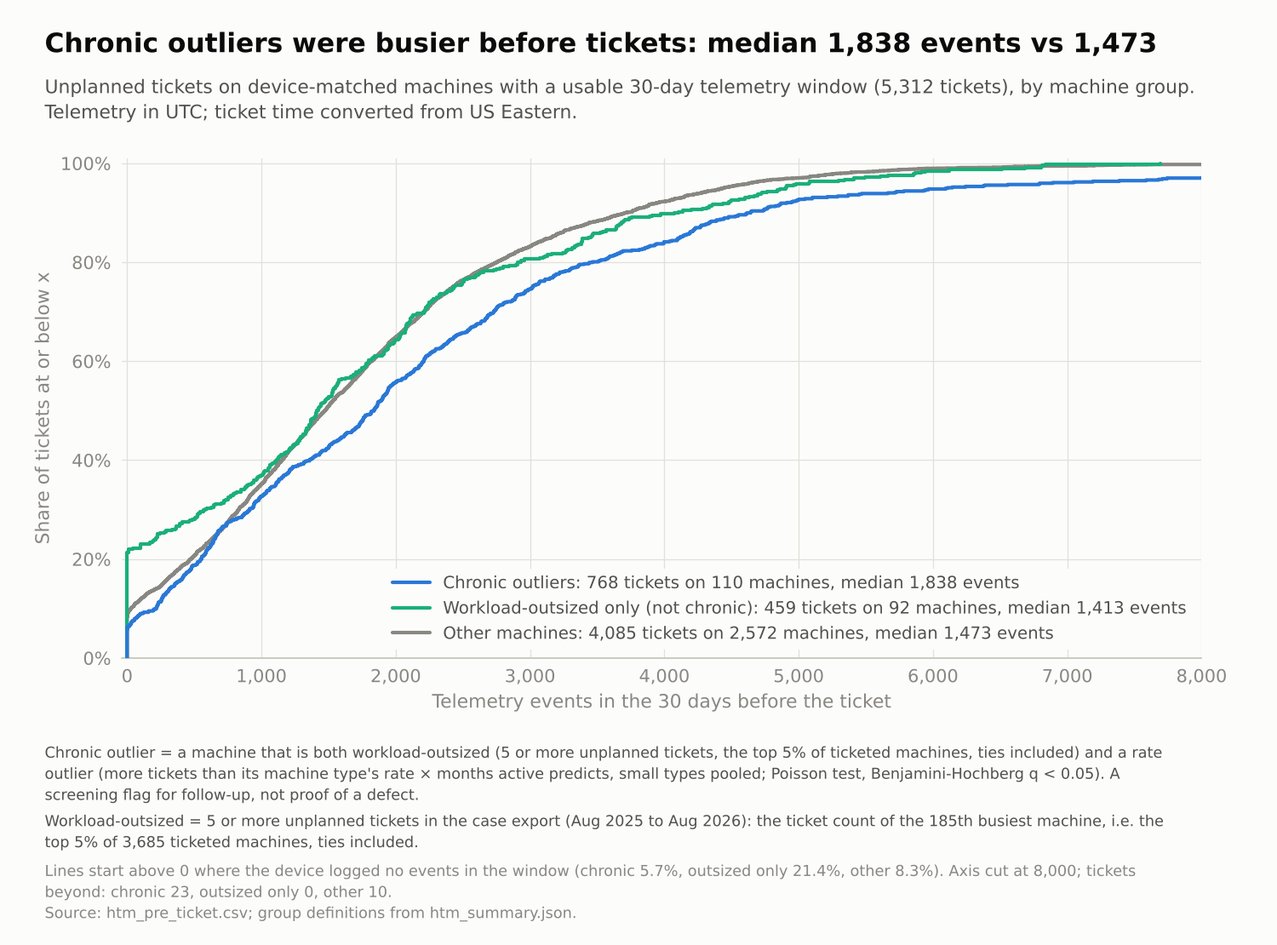
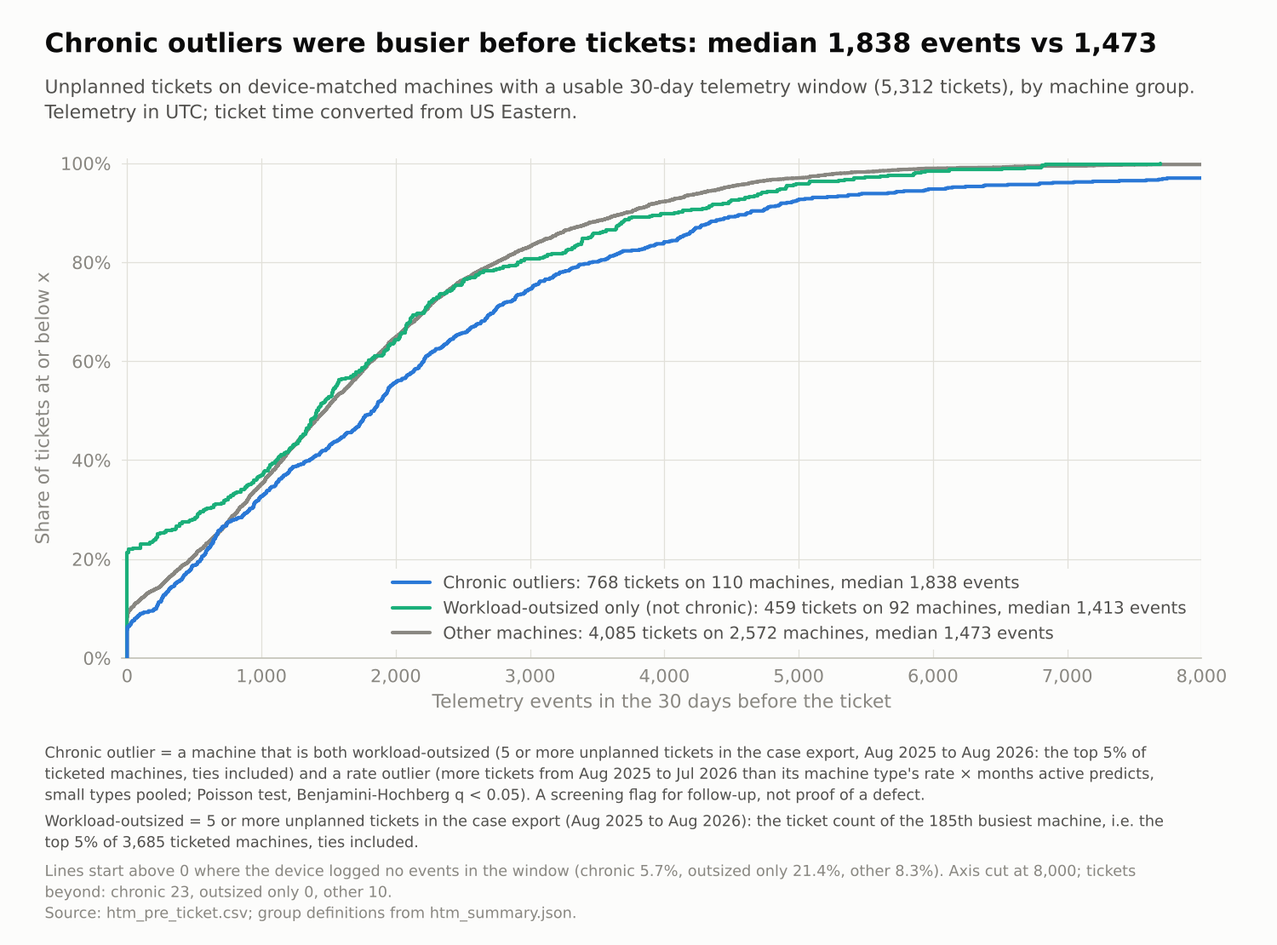
Fix review findings on chart definitions and charts 9-10
- Chart 3 and docs/05: "Workload-outsized only" no longer glossed as "high
  volume, as expected" (false: these devices log a median ~5x their expected
  count but miss q < 0.05); now "not a significant rate outlier".
- Chronic-outlier definition dates both windows (case export for the workload
  count, Aug 2025-Jul 2026 for the rate test). Machine-month definition says
  how zero-month devices are handled and derives the month count from the
  period.
- Chart 10: title qualified to the 19 well-measured types; fleet-rate totals
  stated (all types); top-3 types shown as +12%/+9%/+0% vs fleet rather than
  "near"; sd2.0-49 named as unmeasurable (88 of 89 devices never transact);
  note on why counts differ from chart 9; labels no longer placed across the
  fleet line; Byar docstring accuracy corrected.
- Chart 9: disclaimer says "model" on the model chart; note that telemetry
  type is a near one-to-one stand-in for the top three models (computed).
- Chart 6 notes keep group labels with their values; long lines wrapped;
  README adds the run_all command.

Checks: analysis 33/33; 13 figures, 91 consistency checks, definition check
13/13, privacy scan 0 hits; every chart runs alone under -W error.

Claude-Session: https://claude.ai/code/session_01TK1dMyKUfDxdMWXiP8n6X5

Changed region(s): [[0.0307, 0.7658, 0.92, 0.8577]]

diff --git a/verification/plots/htm_10_ticket_rate_by_machine_type.py b/verification/plots/htm_10_ticket_rate_by_machine_type.py
@@ -30,7 +30,8 @@ NOT_MATCHED = '(not device-matched)'
 
 
 def poisson_interval(k, z=Z):
-    """Byar's approximation to the exact Poisson interval for a count k (accurate to a few % even for small k)."""
+    """Byar's approximation to the exact Poisson interval for a count k: within 1% of the exact limits for k >= 5
+    (the lower limit is too low for k < 5; every type shown has at least 10 tickets)."""
     k = np.asarray(k, float)
     lo = np.where(k > 0, k * (1 - 1 / (9 * np.maximum(k, 1)) - z / (3 * np.sqrt(np.maximum(k, 1)))) ** 3, 0.0)
     hi = (k + 1) * (1 - 1 / (9 * (k + 1)) + z / (3 * np.sqrt(k + 1))) ** 3
@@ -70,10 +71,9 @@ def plot(out_dir=style.FIG_DIR):
     ax.hlines(y, d.lo, d.hi, color=style.GRAY_LIGHT, lw=2, zorder=2)
     ax.scatter(d.rate, y, s=60, c=colors, edgecolors=style.SURFACE, linewidths=1.4, zorder=3)
     for yi, row in zip(y, d.itertuples()):
-        x = row.hi + 0.4
-        if fleet - 1.3 < x < fleet + 0.3:  # the label would sit on the fleet line: move it just right of the line
-            x = fleet + 0.3
-        ax.text(x, yi, f'{row.rate:.1f}', va='center', ha='left', fontsize=9.5,
+        # Right of the interval, unless that lands on the fleet line: then left of the interval.
+        x, ha = (row.lo - 0.4, 'right') if fleet - 1.3 < row.hi + 0.4 < fleet + 0.3 else (row.hi + 0.4, 'left')
+        ax.text(x, yi, f'{row.rate:.1f}', va='center', ha=ha, fontsize=9.5,
                 color=style.INK if row.raw_top else style.INK2, weight='bold' if row.raw_top else 'normal')
     ax.text(fleet + 0.3, len(d) - 0.35, f'Fleet: {fleet:.1f}', va='bottom', ha='left', fontsize=9.5,
             color=style.INK2)
@@ -93,22 +93,33 @@ def plot(out_dir=style.FIG_DIR):
               loc='lower right')
 
     top = d.iloc[-1]
-    raw_rates = d[d.raw_top].sort_values('rate', ascending=False).rate
+    top3 = d[d.raw_top].sort_values('rate', ascending=False)
+    vs_fleet = ', '.join(f'{100 * (v / fleet - 1):+.0f}%' for v in top3.rate)
+    # Small types with mostly non-transacting devices: no measurable exposure rather than just a small one.
+    unmeasured = small[(small.zero_exposure_devices >= small.devices / 2) & (small.tickets_used_for_rate >= 10)]
+    unmeasured_txt = ''.join(f' {u.machine_type} ({u.devices} devices, {u.zero_exposure_devices} with no '
+                             f'transaction in the window; {u.tickets_used_for_rate} tickets) has almost no '
+                             f'measurable exposure.'
+                             for u in unmeasured.itertuples())
+    ex = top3.iloc[0]
+    ex_raw = int(raw.loc[raw.value == ex.machine_type, 'unplanned_tickets'].iloc[0])
     style.frame(
         fig,
-        f'Per machine-month, {top.machine_type} has the highest ticket rate: {top.rate:.1f}, '
+        f'Of {len(d)} well-measured types, {top.machine_type} has the highest ticket rate: '
         f'{top.rate / fleet:.1f}× the fleet',
-        f'Unplanned tickets per 100 machine-months by telemetry machine type, {style.period_text(S)}: '
-        f'{int(d.tickets_used_for_rate.sum()):,} tickets over {int(d.exposure_months.sum()):,} machine-months. '
-        f'Adjusting for exposure, the three types with the most tickets sit near the fleet rate of {fleet:.1f} '
-        f'({", ".join(f"{v:.1f}" for v in raw_rates)}): their lead in raw counts is mostly fleet size.',
-        notes=[f'The fleet rate of {fleet:.1f} per 100 machine-months is about {12 * fleet / 100:.1f} tickets per '
-               f'machine per year. The Poisson interval understates uncertainty because machines of one type differ '
-               f'from each other (see chart 3). Tickets include those on devices with no machine-months '
-               f'({int(r.tickets_on_zero_exposure_devices.sum())} fleet-wide).',
-               f'Not shown: {len(small)} types with fewer than {min_months} machine-months ('
-               f'{int(small.exposure_months.sum()):,} machine-months, {int(small.tickets_used_for_rate.sum())} '
-               f'tickets in all); their rates are too unstable to compare.',
+        f'Unplanned tickets per 100 machine-months by telemetry machine type, {style.period_text(S)}, for the '
+        f'{len(d)} types with at least {min_months} machine-months. Fleet rate {fleet:.1f} = '
+        f'{int(r.tickets_used_for_rate.sum()):,} tickets over {int(r.exposure_months.sum()):,} machine-months, all '
+        f'types. The three types with the most tickets run only modestly above it ({vs_fleet}): their lead in raw '
+        f'counts is mostly fleet size.',
+        notes=[f'The fleet rate is about {12 * fleet / 100:.1f} tickets per machine per year. The Poisson interval '
+               f'understates uncertainty because machines of one type differ from each other (see chart 3). Tickets '
+               f'on devices with 0 machine-months: {int(r.tickets_on_zero_exposure_devices.sum())} fleet-wide.',
+               f'Not shown: {len(small)} types with fewer than {min_months} machine-months '
+               f'({int(small.exposure_months.sum()):,} machine-months, {int(small.tickets_used_for_rate.sum())} '
+               f'tickets in all); their rates are too unstable to compare.{unmeasured_txt}',
+               f'Tickets here cover {style.period_text(S)} on the exposure population, so counts are lower than in '
+               f'chart 9 (e.g. {ex.machine_type}: {int(ex.tickets_used_for_rate):,} here, {ex_raw:,} in chart 9).',
                'Source: htm_type_rates.csv; raw counts from htm_type_mix.csv.'],
         definitions=[style.machine_month_definition(S)])
     return [style.save(fig, out_dir / 'htm_10_ticket_rate_by_machine_type.png')]

diff --git a/verification/plots/htm_09_tickets_by_type.py b/verification/plots/htm_09_tickets_by_type.py
@@ -10,6 +10,7 @@ can rank high simply because many of its machines are installed. Chart 10 (htm_1
 shows the exposure-adjusted rates per 100 machine-months by telemetry type.
 
 Inputs:  verification/outputs/htm_type_mix.csv (field = model / machine_type: unplanned_tickets per value)
+         verification/outputs/htm_machine_counts.csv (model and machine_type per machine, for the proxy note)
          verification/outputs/htm_summary.json (D1_workload: total tickets and machines, for consistency checks)
 Run:     cd /home/user/analytics-lab && python3 -I verification/plots/htm_09_tickets_by_type.py
 """
@@ -25,8 +26,21 @@ N_SHOWN = 12      # bars before the tail is grouped as "Other"
 N_HIGHLIGHT = 3   # top bars in emphasis blue; the titles say "Three" and the subtitles name them
 NOT_MATCHED = '(not device-matched)'
 
-DISCLAIMER = ('Not adjusted for fleet size: these are raw ticket counts, so a type can rank high simply because many '
-              'machines of that type are installed.')
+def disclaimer(noun):
+    return (f'Not adjusted for fleet size: these are raw ticket counts, so a {noun} can rank high simply because many '
+            f'machines of that {noun} are installed.')
+
+
+def proxy_note(models):
+    """For each model, its most common telemetry type among device-matched machines (model -> type share)."""
+    mc = style.load('machine_counts')
+    mc = mc[mc.machine_type.notna() & mc.model.isin(models)]
+    parts = []
+    for model in models:
+        vc = mc.loc[mc.model == model, 'machine_type'].value_counts()
+        parts.append(f'{model} = {vc.index[0]} for {vc.iloc[0]:,} of {vc.sum():,} machines')
+    return ('For these three models, telemetry type is a near one-to-one stand-in (' + '; '.join(parts) +
+            '), so chart 10\'s rates for those types approximate the models\' rates.')
 
 
 def tickets_by(field):
@@ -73,14 +87,15 @@ def plot(out_dir=style.FIG_DIR):
     written.append(draw(
         m, total, 'models',
         f'Three models generate {style.pct(top.unplanned_tickets.sum() / total, 0)} of unplanned tickets',
-        f'Raw counts, not adjusted for fleet size (see the note below). Blue: {", ".join(top.value)}. '
-        f'All {total:,} unplanned tickets on {S["machines"]:,} ticketed machines (case-export '
-        f'serials), {style.period_text(S_all, "case_export_period")}. Excludes planned work, cancelled and duplicate cases. Share of all '
-        f'unplanned tickets in brackets.',
-        [f'Each machine is counted under its most frequently recorded model. Other = the {len(m) - N_SHOWN} models '
-         f'with the fewest tickets.', 'Source: htm_type_mix.csv (field = model).'],
-        DISCLAIMER + ' The number of installed machines per model is not in the data (model is recorded only on '
-        'tickets), so per-machine rates by model cannot be computed.',
+        f'Raw counts, not adjusted for fleet size (see the note below). All {total:,} unplanned tickets on '
+        f'{S["machines"]:,} ticketed machines (case-export serials), '
+        f'{style.period_text(S_all, "case_export_period")}; excludes planned work, cancelled and duplicate cases. '
+        f'Share of all unplanned tickets in brackets; blue = the three models with the most tickets.',
+        [proxy_note(top.value.tolist()),
+         f'Each machine is counted under the model recorded on its tickets. Other = the {len(m) - N_SHOWN} models '
+         f'with the fewest tickets.', 'Source: htm_type_mix.csv (field = model), htm_machine_counts.csv.'],
+        disclaimer('model') + ' The number of installed machines per model is not in the data (model is recorded '
+        'only on tickets), so per-machine rates by model cannot be computed directly.',
         out_dir / 'htm_09_tickets_by_model.png'))
 
     # By telemetry machine type: only tickets whose serial matches a telemetry device.
@@ -94,13 +109,13 @@ def plot(out_dir=style.FIG_DIR):
         t, matched, 'types',
         f'Three telemetry types generate {style.pct(top.unplanned_tickets.sum() / matched, 0)} of device-matched '
         f'tickets',
-        f'Raw counts, not adjusted for fleet size (see the note below). Blue: {", ".join(top.value)}. '
-        f'{matched:,} unplanned tickets whose serial matches a telemetry device, '
-        f'{style.period_text(S_all, "case_export_period")}. Share of device-matched tickets in brackets.',
+        f'Raw counts, not adjusted for fleet size (see the note below). The {matched:,} unplanned tickets whose '
+        f'serial matches a telemetry device, {style.period_text(S_all, "case_export_period")}. Share of these '
+        f'tickets in brackets; blue = the three types with the most tickets.',
         [f'Not shown: {unmatched:,} tickets on machines not matched to a telemetry device. Other = the '
          f'{len(t) - N_SHOWN} types with the fewest tickets.',
          'Source: htm_type_mix.csv (field = machine_type).'],
-        DISCLAIMER + ' Chart 10 adjusts for this: ticket rates per 100 machine-months by telemetry type '
+        disclaimer('type') + ' Chart 10 adjusts for this: ticket rates per 100 machine-months by telemetry type '
         '(htm_10_ticket_rate_by_machine_type.png).',
         out_dir / 'htm_09_tickets_by_machine_type.png'))
     return written

diff --git a/verification/plots/htm_03_observed_vs_expected.py b/verification/plots/htm_03_observed_vs_expected.py
@@ -1,9 +1,10 @@
 #!/usr/bin/env python3
 """Chart 3: observed vs expected unplanned tickets per device, coloured by outlier class.
 
-Each device in the exposure population (shared internal host and devices with no host excluded) is one point: its observed unplanned tickets in the
-period against the count its machine type's rate x months active predicts. Chronic outliers (workload-outsized and
-rate outlier), rate outliers only and workload-outsized-only devices are drawn over the other devices, with the
+Each device in the exposure population (shared internal host and devices with no host excluded) is one point:
+its observed unplanned tickets in the period against the count its machine type's rate x months active predicts.
+Chronic outliers (workload-outsized and rate outlier), rate outliers only and workload-outsized-only devices
+(workload-outsized but not a significant rate outlier) are drawn over the other devices, with the
 observed = expected line for reference. The title states the chronic outliers' median observed vs expected count.
 The footer explains why some workload-outsized devices sit below the ticket threshold on this axis: the threshold
 counts the serial's tickets over the whole case export, the y-axis the device's tickets in the period.
@@ -36,7 +37,7 @@ JITTER = 0.22   # vertical jitter (tickets) to show overlapping integer counts
 CLASSES = [
     ('chronic_outlier', 'Chronic outlier', style.BLUE),
     ('rate_outlier_only', 'Rate outlier only', style.ORANGE),
-    ('high_volume_expected', 'Workload-outsized only', style.AQUA),  # high volume, as expected for its exposure
+    ('high_volume_expected', 'Workload-outsized only', style.AQUA),  # outsized, but not a significant rate outlier
 ]
 NAME = {c: n for c, n, _ in CLASSES}
 
@@ -45,14 +46,15 @@ def count_phrase(n, what):
     return f'{n} {what}' if n == 1 else f'{n} {what}s'
 
 
-def class_definition(d, untested):
+def class_definition(S, d, untested):
     """One line defining the two non-chronic classes."""
     hv0 = int(((d['class'] == 'high_volume_expected') & (d.expected == 0)).sum())
-    zero_txt = (f', including {hv0} {"untested " if untested else ""}devices with zero exposure months (x = 0)'
-                if hv0 else '')
+    zero_txt = (f'; the class also holds {hv0} {"untested " if untested else ""}devices with zero exposure months '
+                f'(x\u00a0=\u00a00)' if hv0 else '')
     return (f'{NAME["rate_outlier_only"]} = a rate outlier that is not workload-outsized. '
-            f'{NAME["high_volume_expected"]} = workload-outsized but not a rate outlier: high volume, as expected for '
-            f'its type and months active{zero_txt}.')
+            f'{NAME["high_volume_expected"]} = workload-outsized but not a significant rate outlier '
+            f'(q\u00a0≥\u00a0{S["definitions"]["q_cut"]:g}): most still log well above their expected count but miss the '
+            f'cut{zero_txt}.')
 
 
 def threshold_note(S, d):
@@ -61,7 +63,8 @@ def threshold_note(S, d):
     thr = S['D1_workload']['threshold']
     low = d.tickets_obs < thr
     counts = [(int((low & (d['class'] == 'chronic_outlier')).sum()), 'chronic outlier'),
-              (int((low & (d['class'] == 'high_volume_expected')).sum()), f'{NAME["high_volume_expected"].lower()} device')]
+              (int((low & (d['class'] == 'high_volume_expected')).sum()),
+               f'{NAME["high_volume_expected"].lower()} device')]
     text = ('Workload-outsized counts the serial\'s unplanned tickets over the whole case export, not the device\'s '
             'tickets in the period plotted here')
     if any(n for n, _ in counts):
@@ -150,7 +153,7 @@ def plot(out_dir=style.FIG_DIR):
         f'{len(d):,} devices in the exposure population (shared internal host and devices with no host excluded), '
         f'unplanned tickets {style.period_text(S)}. '
         f'Points above the line logged more tickets than their type\'s rate × months active predicts.',
-        definitions=[style.chronic_definition(S), class_definition(d, untested)],
+        definitions=[style.chronic_definition(S), class_definition(S, d, untested)],
         notes=[threshold_note(S, d),
                f'Points jittered vertically by up to {JITTER} to show overlap. {len(zero)} devices with zero '
                f'exposure months sit at x = 0{" (not tested)" if untested else ""}.{hidden_note(S, hidden)}',

diff --git a/verification/plots/style.py b/verification/plots/style.py
@@ -87,17 +87,21 @@ def chronic_definition(S=None):
     S = S or summary()
     w, d = S['D1_workload'], S['definitions']
     return (f'Chronic outlier = a machine that is both workload-outsized ({w["threshold"]} or more unplanned '
-            f'tickets, the top {d["top_share"]:.0%} of ticketed machines, ties included) and a rate outlier (more '
-            f'tickets than its machine type\'s rate × months active predicts, small types pooled; Poisson test, '
-            f'Benjamini-Hochberg q < {d["q_cut"]:g}). A screening flag for follow-up, not proof of a defect.')
+            f'tickets in the case export, {period_text(S, "case_export_period")}: the top {d["top_share"]:.0%} of '
+            f'ticketed machines, ties included) and a rate outlier (more tickets from {period_text(S)} than its '
+            f'machine type\'s rate × months active predicts, small types pooled; Poisson test, Benjamini-Hochberg '
+            f'q < {d["q_cut"]:g}). A screening flag for follow-up, not proof of a defect.')
 
 
 def machine_month_definition(S=None):
     S = S or summary()
-    return (f'Machine-month = one month of a machine being in service. Each telemetry device counts the calendar '
-            f'months from its first to its last transaction within {period_text(S)}, both included (quiet months in '
-            f'between count too), so a machine active all year adds 12. Devices on the shared internal host or with '
-            f'no host are excluded.')
+    lo, hi = (pd.Timestamp(x) for x in S['definitions']['period'])
+    n_months = (hi.year - lo.year) * 12 + hi.month - lo.month + 1
+    return (f'Machine-month = one month of a machine in service. Each telemetry device counts the months of '
+            f'{period_text(S)} that fall within its first-to-last-transaction span, both end months included and quiet '
+            f'months in between too, so a machine active throughout adds {n_months}. Devices with no transaction in '
+            f'that window count 0 months but stay in the device counts and rates. Devices on the shared internal host '
+            f'or with no host are excluded.')
 
 
 def check(name, expected, actual, tol=0.0):

diff --git a/verification/plots/htm_06_pre_ticket.py b/verification/plots/htm_06_pre_ticket.py
@@ -155,10 +155,10 @@ def plot(out_dir=style.FIG_DIR):
         ax.legend(loc='lower right', handlelength=2.2, frameon=True, facecolor=style.SURFACE, edgecolor='none',
                   framealpha=1)
 
-        beyond_txt = ', '.join(f'{g.short} {beyond[g.key]}' for g in GROUPS)
+        beyond_txt = ', '.join(f'{g.short}\u00a0{beyond[g.key]}' for g in GROUPS)
         if spec.key == 'events':
             zero = {g.key: (pt.loc[pt.group == g.key, col] == 0).mean() for g in GROUPS}
-            zero_txt = ', '.join(f'{g.short} {style.pct(zero[g.key])}' for g in GROUPS)
+            zero_txt = ', '.join(f'{g.short}\u00a0{style.pct(zero[g.key])}' for g in GROUPS)
             title = (f'Chronic outliers were busier before tickets: median {med["chronic"]:,.0f} events vs '
                      f'{med["other"]:,.0f}')
             population = f'({sum(n.values()):,} tickets)'
@@ -171,7 +171,7 @@ def plot(out_dir=style.FIG_DIR):
             title = (f'Chronic outliers logged more non-success events: median {med["chronic"]:.0f} vs '
                      f'{med["other"]:.0f} per 1,000')
             # No-break spaces (\u00a0) keep each paired comparison, the counts and the offset whole when frame() wraps.
-            paired_txt = ', '.join(f'{g.short} {paired[g.key][0]:.1f}\u00a0vs\u00a0{paired[g.key][1]:.1f}'
+            paired_txt = ', '.join(f'{g.short}\u00a0{paired[g.key][0]:.1f}\u00a0vs\u00a0{paired[g.key][1]:.1f}'
                                    for g in GROUPS)
             population = f'that logged at least one event ({sum(n.values()):,}\u00a0of\u00a0{usable:,}\u00a0tickets)'
             earlier = f'{S["definitions"]["control_offset_days"]}\u00a0days earlier'

diff --git a/verification/plots/htm_05_episode_followups.py b/verification/plots/htm_05_episode_followups.py
@@ -112,11 +112,13 @@ def plot(out_dir=style.FIG_DIR):
         f'Outsized machines\' tickets are {gap}-day follow-ups {ratio:.1f}× as often '
         f'({style.pct(share["outsized"][gap])} vs {style.pct(share["other"][gap])})',
         f'All {sum(tickets.values()):,} unplanned tickets on {len(ep):,} machines (case-export serials), '
-        f'{style.period_text(S, "case_export_period")}. A ticket is a follow-up if it opens within {gap} days of the machine\'s previous '
+        f'{style.period_text(S, "case_export_period")}. '
+        f'A ticket is a follow-up if it opens within {gap} days of the machine\'s previous '
         f'ticket (sensitivity: {lo_gap} and {hi_gap} days).',
         definitions=[style.outsized_definition(S)],
         notes=[f'Random timing: each machine\'s tickets placed uniformly at random over the period '
-               f'({S["definitions"]["n_sim_episodes"]} draws, a rough null). More tickets alone produce more follow-ups: '
+               f'({S["definitions"]["n_sim_episodes"]} draws, a rough null). '
+               f'More tickets alone produce more follow-ups: '
                f'{style.pct(rts["outsized"])} for outsized machines and {style.pct(rts["other"])} for the rest.',
                'Source: htm_episodes.csv; random timing and threshold from htm_summary.json (D5, D1).'])
     return [style.save(fig, out_dir / PNG)]

diff --git a/verification/plots/htm_07_chronic_outliers_by_customer.py b/verification/plots/htm_07_chronic_outliers_by_customer.py
@@ -96,7 +96,8 @@ def draw(S, c, path, names=None):
              + (f'; names from {NAMES.relative_to(style.ROOT)}' if names is not None else '')
              + '; thresholds from htm_summary.json.']
     subtitle = [f'{n_mach} chronic-outlier machines across {n_cust} customers (tickets counted over the case export, '
-                f'{style.period_text(S, "case_export_period")}; rate test on {style.period_text(S)}). {which} shown against their devices in the '
+                f'{style.period_text(S, "case_export_period")}; rate test over {style.period_text(S)}). '
+                f'{which} shown against their devices in the '
                 f'exposure population (customer hosts).']
     if names is not None:
         # First line of the subtitle, so the warning is read before the chart (frame() wraps each item separately).

diff --git a/verification/plots/htm_08_chronic_categories_heatmap.py b/verification/plots/htm_08_chronic_categories_heatmap.py
@@ -112,7 +112,8 @@ def plot(out_dir=style.FIG_DIR):
     style.frame(
         fig,
         f'One category makes up half or more of the tickets on {n_dom} of {len(mach)} chronic outliers',
-        f'Unplanned tickets by category (case-export serials, {style.period_text(S, "case_export_period")}) for the {len(rows)} '
+        f'Unplanned tickets by category (case-export serials, {style.period_text(S, "case_export_period")}) '
+        f'for the {len(rows)} '
         f'chronic-outlier machines with the most tickets. Columns: the {N_COLS} most frequent categories across all '
         f'{len(mach)} chronic outliers, with their totals.',
         definitions=[style.chronic_definition(S)],

diff --git a/verification/plots/htm_04_model_mix.py b/verification/plots/htm_04_model_mix.py
@@ -83,7 +83,8 @@ def plot(out_dir=style.FIG_DIR):
         fig,
         f'Outsized machines\' model mix differs from the rest by about {max_gap:.0f} points at most',
         f'Share of machines by model: {n_out:,} workload-outsized vs {n_oth:,} other ticketed machines (case-export '
-        f'serials), unplanned tickets {style.period_text(S, "case_export_period")}. The {min(N_SHOWN, len(m))} models with the largest gap, '
+        f'serials), unplanned tickets {style.period_text(S, "case_export_period")}. '
+        f'The {min(N_SHOWN, len(m))} models with the largest gap, '
         f'sorted by gap.',
         definitions=[style.outsized_definition(S)],
         notes=notes)

diff --git a/docs/05_high_ticket_machines.md b/docs/05_high_ticket_machines.md
@@ -2,7 +2,7 @@
 
 *Script: `verification/high_ticket_machines.py` (33 self-checks; it runs locally in about 20 s from the workbook and
 the committed `fu_*` and `db_*` CSVs, with no database). Figures: `verification/outputs/figures/htm_*.png`, drawn
-by one plain matplotlib script per chart in `verification/plots/` (`htm_01_*.py` … `htm_10_*.py`; `run_all.py` draws
+by one plain matplotlib script per chart in `verification/plots/` (charts 6 and 9 each write two figures) (`htm_01_*.py` … `htm_10_*.py`; `run_all.py` draws
 them all). Every number below is in `verification/outputs/htm_summary.json` or an `htm_*.csv`, unless it is marked
 as coming from the review pass.*
 
@@ -51,7 +51,7 @@ Combining the two views (D3):
 | Class | Machines | Meaning |
 |---|---|---|
 | **Chronic outlier** | **113** | Workload-outsized **and** a rate outlier |
-| Workload-outsized only | 93 | Workload-outsized, but not a rate outlier: high volume, as expected for the type and the months active |
+| Workload-outsized only | 93 | Workload-outsized, but not a significant rate outlier (q ≥ 0.05). Most still log well above their expected count (median about 5×) but miss the cut; 9 have no exposure months and were not tested |
 | Rate outlier only | 5 | A rate outlier that is not workload-outsized: few tickets but very short exposure |
 
 The workload view's top 5% hold 18.3% of tickets, and its top 10% and top 20% hold 29.4% and 45.6%. 147 machines have
@@ -137,7 +137,7 @@ predict; another ~40 are borderline."
   | Customer 171 | 4 | 67 |
   | Customer 054 | 4 | 52 |
 
-  Chronic machines cluster by customer no more than high-volume machines in general (review). For the 247 workload-outsized
+  Chronic machines cluster by customer no more than workload-outsized machines in general (review). For the 247 workload-outsized
   machines, the top five customers hold 12.2% against 8.1% by chance (95th percentile 10.1%).
 
 ![Chronic outliers by customer](../verification/outputs/figures/htm_07_chronic_outliers_by_customer.png)
@@ -146,7 +146,7 @@ predict; another ~40 are borderline."
 ## D. Episodes (D5)
 Tickets on the same machine no more than 7 days apart count as one episode.
 
-| | Workload-outsized (247) | Other machines (3,438) |
+| | Workload-outsized (247) | Other ticketed machines (3,438) |
 |---|---|---|
 | Median tickets / episodes per machine | 6 / 5 | 1 / 1 |
 | Follow-up share (tickets within an existing episode) | **21.8%** | 5.8% |
@@ -164,7 +164,7 @@ From `fu_ticket_last10.csv`: 30-day lookback on the corrected clock, 5,312 usabl
 | Group | Events in 30 days (median) | Non-success codes per 1,000, ticket window | Same, clean control 35 days earlier (paired) |
 |---|---|---|---|
 | Chronic (768 tickets) | 1,838 | 104.9 (paired: 68.8) | 48.5 |
-| Workload-outsized, not chronic | 1,413 | 97.1 (paired: 76.5) | 54.9 |
+| Workload-outsized only (not chronic) | 1,413 | 97.1 (paired: 76.5) | 54.9 |
 | Other machines | 1,473 | 67.6 (paired: 62.9) | 41.4 |
 
 - Chronic machines are busier and noisier at all times.
@@ -191,8 +191,11 @@ of that type are installed. Chart 10 adjusts for this with machine-months.
   first to its last transaction within Aug 2025–Jul 2026, both included, so a machine active all year adds 12.
 - **Adjusting for exposure with machine-months** (chart 10, `htm_type_rates.csv`) changes the reading:
   - those three types are also 48% of the exposure-population devices and of their machine-months;
-  - their rates are 8.5, 8.2 and 7.6 tickets per 100 machine-months, close to the fleet's 7.5. Their lead in raw
-    counts is mostly fleet size;
+  - their rates are 8.5, 8.2 and 7.6 tickets per 100 machine-months, only modestly above the fleet's 7.5 (+12%, +9%,
+    +0%; the first two are above it even allowing for chance). Their 52% share of tickets against 48% of
+    machine-months shows their lead in raw counts is mostly fleet size;
+  - sd2.0-49, 10th by raw count, is not in chart 10: 88 of its 89 devices never transact in the window, so its
+    exposure cannot be measured from telemetry;
   - the highest rate among types with at least 100 machine-months is sbsx-51: 21.9 per 100 machine-months, on 33
     devices.
 

diff --git a/README.md b/README.md
@@ -46,7 +46,8 @@ python3 -I verification/tests/run_fixture_tests.py # self-test of the DB script 
 python3 -I verification/verify_with_db.py --db data/raw/ipa_transaction_events_202508_202608.db \
     --xlsx "data/raw/IPA_CaseHistory_Aug 2025-Aug2026.xlsx" --out verification/outputs/db --private data/private/db
 python3 -I verification/high_ticket_machines.py   # ~20 s, no DB; ends by drawing the htm_* figures
-python3 -I verification/plots/htm_03_observed_vs_expected.py   # redraw one chart (any htm_0N_*.py)
+python3 -I verification/plots/run_all.py                        # redraw every chart and run the chart checks
+python3 -I verification/plots/htm_03_observed_vs_expected.py   # redraw one chart (any htm_NN_*.py)
 ```
 
 Requires Python 3.12+ with pandas, numpy and openpyxl; matplotlib for the figures (skipped with a message if it is
